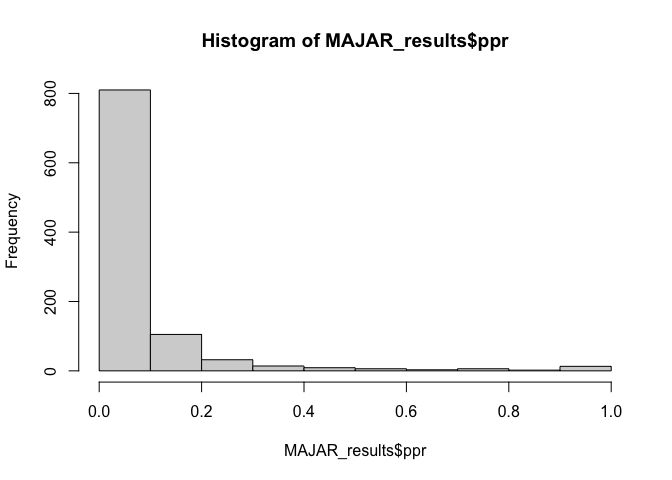
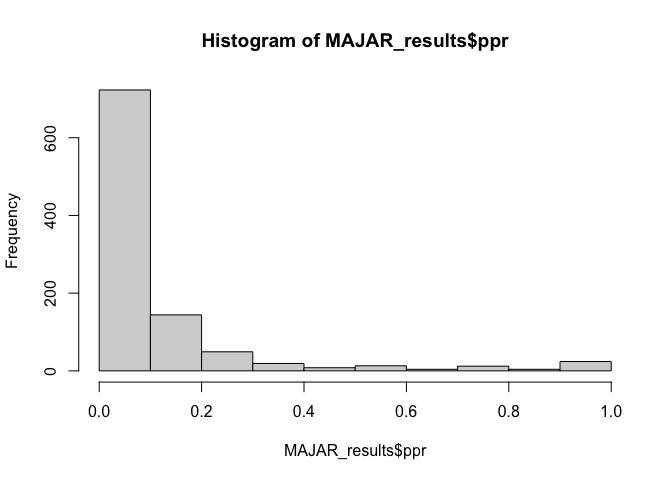
1208

diff --git a/README.md b/README.md
@@ -3,8 +3,9 @@
 
 # MAJAR
 
-<!-- badges: start -->
-<!-- badges: end -->
+*Yuhan Xie, Song Zhai, Wei Jiang, Hongyu Zhao, Devan V. Mehrotra, Judong
+Shen*  
+<!-- badges: start --> <!-- badges: end -->
 
 We propose MAJAR (Meta-Analysis of Joint effect Associations for
 biomarker Replicability assessment) to jointly test prognostic and
@@ -16,26 +17,13 @@ parameter estimation. It provides posterior probabilities of
 replicability (PPRs) and Bayesian false discovery rates (Fdr) for all
 biomarkers tested.
 
-## Installation
+## Source
 
-To install the software for *MAJAR*, you need package *devtools* first
-
-``` r
-if (!requireNamespace("devtools", quietly = TRUE))
-    install.packages("devtools")
-library(devtools)
-#> Loading required package: usethis
-```
-
-Then, you can install *MAJAR*
+Before using MAJAR, please downloaded the MAJAR software and source the
+scripts
 
 ``` r
-#install_github("JustinaXie/MAJAR")
 Rcpp::sourceCpp("src/file.cpp")
-#> Warning in checkMatrixPackageVersion(): Package version inconsistency detected.
-#> TMB was built with Matrix version 1.4.1
-#> Current Matrix version is 1.5.1
-#> Please re-install 'TMB' from source using install.packages('TMB', type = 'source') or ask CRAN for a binary version of 'TMB' matching CRAN's 'Matrix' package
 #> Registered S3 methods overwritten by 'RcppEigen':
 #>   method               from         
 #>   predict.fastLm       RcppArmadillo
@@ -74,10 +62,6 @@ source("R/Simulation.R")
 ## Example
 
 This is a basic example which shows you how to solve a common problem:
-
-``` r
-#library(MAJAR)
-```
 
 1.  An example of simulation under MAJAR’s data generation process.
 
@@ -133,18 +117,18 @@ hist(MAJAR_results$ppr)
 
 ``` r
 print(paste0("The estimated replicable non-zero effect proportion:",round(MAJAR_results$p,3)))
-#> [1] "The estimated replicable non-zero effect proportion:0.095"
+#> [1] "The estimated replicable non-zero effect proportion:0.128"
 print(paste0("The estimated outlier proportion:",round(MAJAR_results$lambda,3)))
-#> [1] "The estimated outlier proportion:0.131"
+#> [1] "The estimated outlier proportion:0.14"
 print(paste0("The estimated inflation rate factor:",round(MAJAR_results$alpha,3)))
-#> [1] "The estimated inflation rate factor:1.836"
+#> [1] "The estimated inflation rate factor:1.692"
 print(paste0("The estimated heritability:",round(MAJAR_results$h2,3)))
-#> [1] "The estimated heritability:0.061"
+#> [1] "The estimated heritability:0.093"
 print(paste0("The estimated correlation between main and interaction effect:",round(MAJAR_results$rho,3)))
-#> [1] "The estimated correlation between main and interaction effect:0.602"
+#> [1] "The estimated correlation between main and interaction effect:0.423"
 ```
 
 ``` r
 MAJAR_results$Time
-#> Time difference of 0.3306921 mins
+#> Time difference of 0.4936011 mins
 ```
